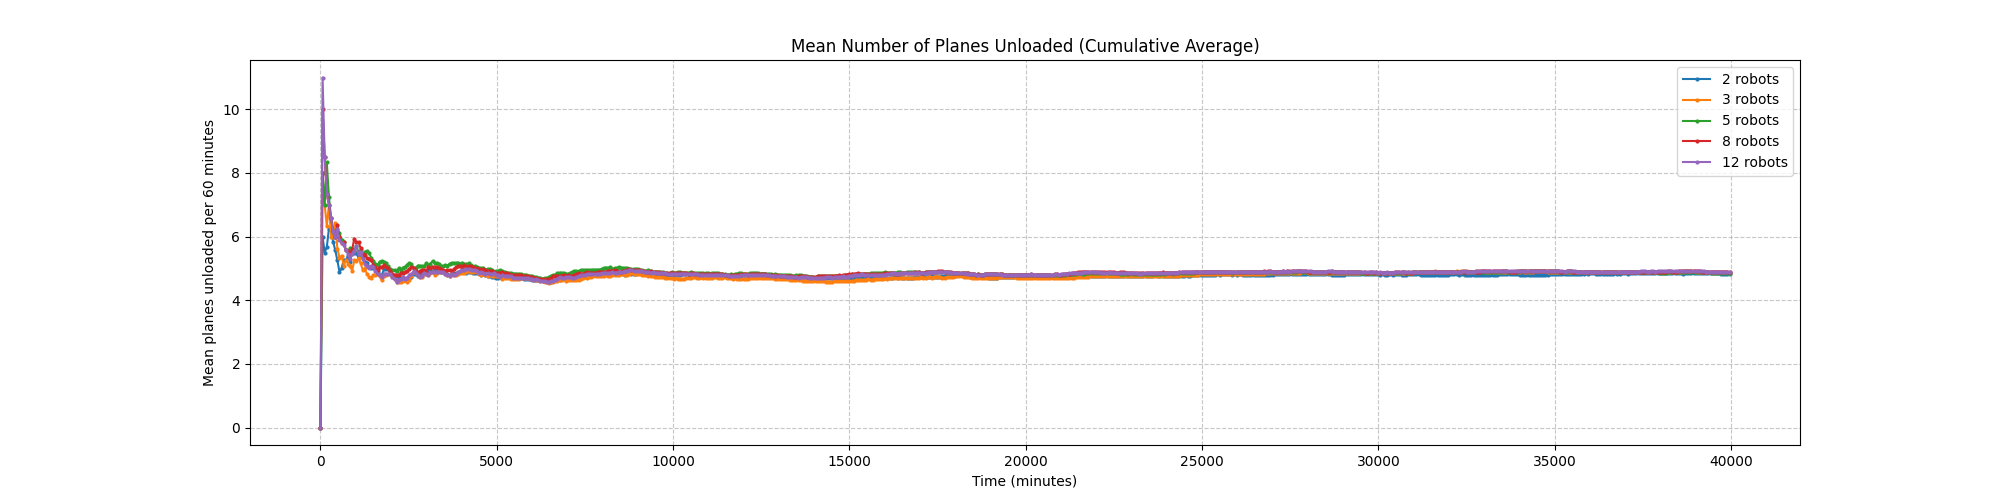
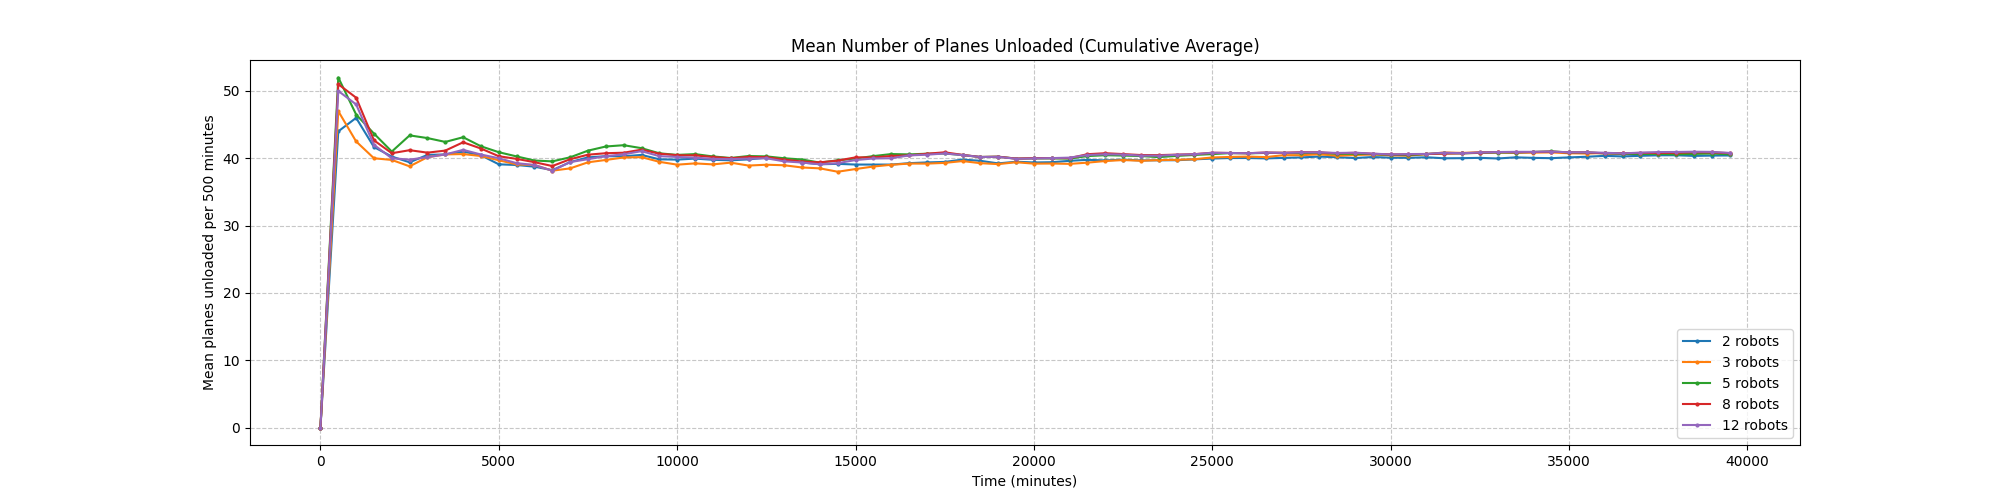
refactor: remove unused plotting functions and images, update window size for simulation

diff --git a/tp1/src/visualization/plots.py b/tp1/src/visualization/plots.py
@@ -19,45 +19,8 @@ class SimulationPlots:
         pass
 
     @staticmethod
-    def plot_unloaded_planes(
-        scenarios: dict[int, list], simulation_duration: int, window_size: int
-    ) -> None:
-        """
-        Plot the number of planes unloaded over time for all scenarios.
-        - scenarios (dict[int, list]): Dictionary mapping scenario number to list of AirPlane objects
-        - simulation_duration (int): Total duration of simulation in minutes
-        - window_size (int): Size of time windows in minutes for calculating means
-        """
-        plt.figure(figsize=(20, 5))
-
-        time_windows = range(0, simulation_duration, window_size)
-
-        for scenario_num, planes in scenarios.items():
-            planes_per_hour = []
-
-            for window_start in time_windows:
-                window_end = window_start + window_size
-                planes_in_window = sum(
-                    1
-                    for plane in planes
-                    if plane.service_end_time is not None
-                    and window_start <= plane.service_end_time < window_end
-                )
-                planes_per_hour.append(planes_in_window)
-
-            plt.plot(time_windows, planes_per_hour, label=f"{scenario_num} robots")
-
-        plt.title("Number of Planes Unloaded by Scenario")
-        plt.xlabel("Time (minutes)")
-        plt.ylabel(f"Number of planes unloaded per {window_size} minutes")
-        plt.grid(True, linestyle="--", alpha=0.7)
-        plt.legend()
-        plt.savefig("unloaded_planes.png")
-        plt.close()
-
-    @staticmethod
     def plot_mean_unloaded_planes(
-        scenarios: dict[int, list], simulation_duration: int, window_size: int
+        scenarios: dict[int, list[AirPlane]], simulation_duration: int, window_size: int
     ) -> None:
         """
         Plot the mean number of planes unloaded from the start of simulation up to each time point.
@@ -70,23 +33,10 @@ class SimulationPlots:
         time_windows = range(0, simulation_duration, window_size)
 
         for scenario_num, planes in scenarios.items():
-            mean_planes = []
-            cumulative_planes = 0
-
-            for window_end in time_windows:
-                planes_up_to_now = sum(
-                    1
-                    for plane in planes
-                    if plane.service_end_time is not None
-                    and plane.service_end_time <= window_end
-                )
-                cumulative_planes = planes_up_to_now
-
-                hours_elapsed = window_end / 60  # Convert minutes to hours
-                mean_planes_per_hour = (
-                    cumulative_planes / hours_elapsed if hours_elapsed > 0 else 0
-                )
-                mean_planes.append(mean_planes_per_hour)
+            mean_planes = [
+                AirPlane.calculate_mean_unloaded_rate(planes, window_end, window_size)
+                for window_end in time_windows
+            ]
 
             plt.plot(
                 time_windows,
@@ -102,55 +52,6 @@ class SimulationPlots:
         plt.grid(True, linestyle="--", alpha=0.7)
         plt.legend()
         plt.savefig("unloaded_mean_planes.png")
-        plt.close()
-
-    @staticmethod
-    def plot_queue_length(
-        scenarios: dict[int, list], simulation_duration: int, window_size: int = 600
-    ) -> None:
-        """
-        Plot the instantaneous queue length over time for all scenarios.
-        - scenarios (dict[int, list]): Dictionary mapping scenario number to list of AirPlane objects
-        - simulation_duration (int): Total duration of simulation in minutes
-        - window_size (int): Size of time windows in minutes for sampling
-        """
-        plt.figure(figsize=(20, 5))
-
-        time_windows = range(0, simulation_duration, window_size)
-
-        for scenario_num, planes in scenarios.items():
-            queue_lengths = []
-
-            for window_start in time_windows:
-                window_end = window_start + window_size
-                planes_in_queue = sum(
-                    1
-                    for plane in planes
-                    if (
-                        plane.queue_entry_time is not None
-                        and plane.queue_entry_time <= window_end
-                        and (
-                            plane.service_start_time is None
-                            or plane.service_start_time > window_end
-                        )
-                    )
-                )
-                queue_lengths.append(planes_in_queue)
-
-            plt.plot(
-                time_windows,
-                queue_lengths,
-                label=f"{scenario_num} robots",
-                marker=".",
-                markersize=4,
-            )
-
-        plt.title("Number of Planes in Queue Over Time")
-        plt.xlabel("Time (minutes)")
-        plt.ylabel(f"Number of planes in queue per {window_size} minutes")
-        plt.grid(True, linestyle="--", alpha=0.7)
-        plt.legend()
-        plt.savefig("queue_length.png")
         plt.close()
 
     @staticmethod
@@ -197,58 +98,6 @@ class SimulationPlots:
         plt.grid(True, linestyle="--", alpha=0.7)
         plt.legend()
         plt.savefig("queue_mean_length.png")
-        plt.close()
-
-    @staticmethod
-    def plot_waiting_time(
-        scenarios: dict[int, list], simulation_duration: int, window_size: int = 600
-    ) -> None:
-        """
-        Plot the waiting time of planes that completed service in each time window.
-        - scenarios (dict[int, list]): Dictionary mapping scenario number to list of AirPlane objects
-        - simulation_duration (int): Total duration of simulation in minutes
-        - window_size (int): Size of time windows in minutes for sampling
-        """
-        plt.figure(figsize=(20, 5))
-
-        time_windows = range(0, simulation_duration, window_size)
-
-        for scenario_num, planes in scenarios.items():
-            waiting_times = []
-
-            for window_start in time_windows:
-                window_end = window_start + window_size
-                window_waiting_times = [
-                    plane.waiting_time
-                    for plane in planes
-                    if (
-                        plane.service_end_time is not None
-                        and window_start <= plane.service_end_time < window_end
-                        and plane.waiting_time is not None
-                    )
-                ]
-
-                avg_waiting_time = (
-                    sum(window_waiting_times) / len(window_waiting_times)
-                    if window_waiting_times
-                    else 0
-                )
-                waiting_times.append(avg_waiting_time)
-
-            plt.plot(
-                time_windows,
-                waiting_times,
-                label=f"{scenario_num} robots",
-                marker=".",
-                markersize=4,
-            )
-
-        plt.title("Average Waiting Time per Time Window")
-        plt.xlabel("Time (minutes)")
-        plt.ylabel(f"Average waiting time (minutes) per {window_size} minutes")
-        plt.grid(True, linestyle="--", alpha=0.7)
-        plt.legend()
-        plt.savefig("waiting_time.png")
         plt.close()
 
     @staticmethod
@@ -300,64 +149,6 @@ class SimulationPlots:
         plt.grid(True, linestyle="--", alpha=0.7)
         plt.legend()
         plt.savefig("waiting_time_mean.png")
-        plt.close()
-
-    @staticmethod
-    def plot_robot_utilization(
-        scenarios: dict[int, list], simulation_duration: int, window_size: int = 600
-    ) -> None:
-        """
-        Plot the robot utilization rate per time window.
-        - scenarios (dict[int, list]): Dictionary mapping scenario number to list of AirPlane objects
-        - simulation_duration (int): Total duration of simulation in minutes
-        - window_size (int): Size of time windows in minutes for sampling
-        """
-        plt.figure(figsize=(20, 5))
-
-        time_windows = range(0, simulation_duration, window_size)
-
-        for scenario_num, planes in scenarios.items():
-            utilization_rates = []
-
-            for window_start in time_windows:
-                window_end = window_start + window_size
-
-                total_service_time = sum(
-                    min(window_end, plane.service_end_time or window_end)
-                    - max(window_start, plane.service_start_time or window_start)
-                    for plane in planes
-                    if (
-                        plane.service_start_time is not None
-                        and plane.service_start_time < window_end
-                        and (
-                            plane.service_end_time is None
-                            or plane.service_end_time > window_start
-                        )
-                    )
-                )
-
-                total_robot_minutes = total_service_time * scenario_num
-                window_minutes = window_size * scenario_num
-                utilization_rate = (
-                    total_robot_minutes / window_minutes if window_minutes > 0 else 0
-                )
-                utilization_rates.append(utilization_rate)
-
-            plt.plot(
-                time_windows,
-                utilization_rates,
-                label=f"{scenario_num} robots",
-                marker=".",
-                markersize=4,
-            )
-
-        plt.title("Robot Utilization Rate per Time Window")
-        plt.xlabel("Time (minutes)")
-        plt.ylabel(f"Utilization rate per {window_size} minutes")
-        plt.grid(True, linestyle="--", alpha=0.7)
-        plt.legend()
-        plt.ylim(0, 1)  # Utilization rate is between 0 and 1
-        plt.savefig("robot_utilization.png")
         plt.close()
 
     @staticmethod

diff --git a/tp1/main.py b/tp1/main.py
@@ -5,7 +5,7 @@ from tp1.config.logger import setup_logger
 import time
 
 SIMULATION_DURATION = 40000
-WINDOW_SIZE = 60
+WINDOW_SIZE = 500
 
 
 def main():
@@ -55,18 +55,18 @@ def main():
 
         scenarios[num_robots] = airport.planes
 
-    SimulationPlots.plot_unloaded_planes(scenarios, SIMULATION_DURATION, WINDOW_SIZE)
     SimulationPlots.plot_mean_unloaded_planes(
         scenarios, SIMULATION_DURATION, WINDOW_SIZE
     )
-    SimulationPlots.plot_queue_length(scenarios, SIMULATION_DURATION, WINDOW_SIZE)
-    SimulationPlots.plot_mean_queue_length(scenarios, SIMULATION_DURATION, WINDOW_SIZE)
-    SimulationPlots.plot_waiting_time(scenarios, SIMULATION_DURATION, WINDOW_SIZE)
-    SimulationPlots.plot_mean_waiting_time(scenarios, SIMULATION_DURATION, WINDOW_SIZE)
-    SimulationPlots.plot_robot_utilization(scenarios, SIMULATION_DURATION, WINDOW_SIZE)
-    SimulationPlots.plot_mean_robot_utilization(
-        scenarios, SIMULATION_DURATION, WINDOW_SIZE
-    )
+    # SimulationPlots.plot_mean_queue_length(
+    #     scenarios, SIMULATION_DURATION, WINDOW_SIZE
+    # )
+    # SimulationPlots.plot_mean_waiting_time(
+    #     scenarios, SIMULATION_DURATION, WINDOW_SIZE
+    # )
+    # SimulationPlots.plot_mean_robot_utilization(
+    #     scenarios, SIMULATION_DURATION, WINDOW_SIZE
+    # )
 
 
 if __name__ == "__main__":

diff --git a/tp1/src/models/airplane.py b/tp1/src/models/airplane.py
@@ -32,3 +32,21 @@ class AirPlane:
     def service_time(self) -> float:
         """Calculate the time the plane spent being served."""
         return self.service_end_time - self.service_start_time
+
+    def is_unloaded_by(self, time: int) -> bool:
+        """Check if the plane is unloaded by a given time."""
+        return self.service_end_time is not None and self.service_end_time <= time
+
+    @classmethod
+    def count_unloaded_by_time(cls, planes: list["AirPlane"], time: int) -> int:
+        """Count how many planes have been unloaded by a given time."""
+        return sum(1 for plane in planes if plane.is_unloaded_by(time=time))
+
+    @classmethod
+    def calculate_mean_unloaded_rate(
+        cls, planes: list["AirPlane"], time: int, window_size: int
+    ) -> float:
+        """Calculate the mean rate of planes unloaded up to a given time."""
+        planes_unloaded = cls.count_unloaded_by_time(planes, time)
+        windows_elapsed = time / window_size
+        return planes_unloaded / windows_elapsed if windows_elapsed > 0 else 0
